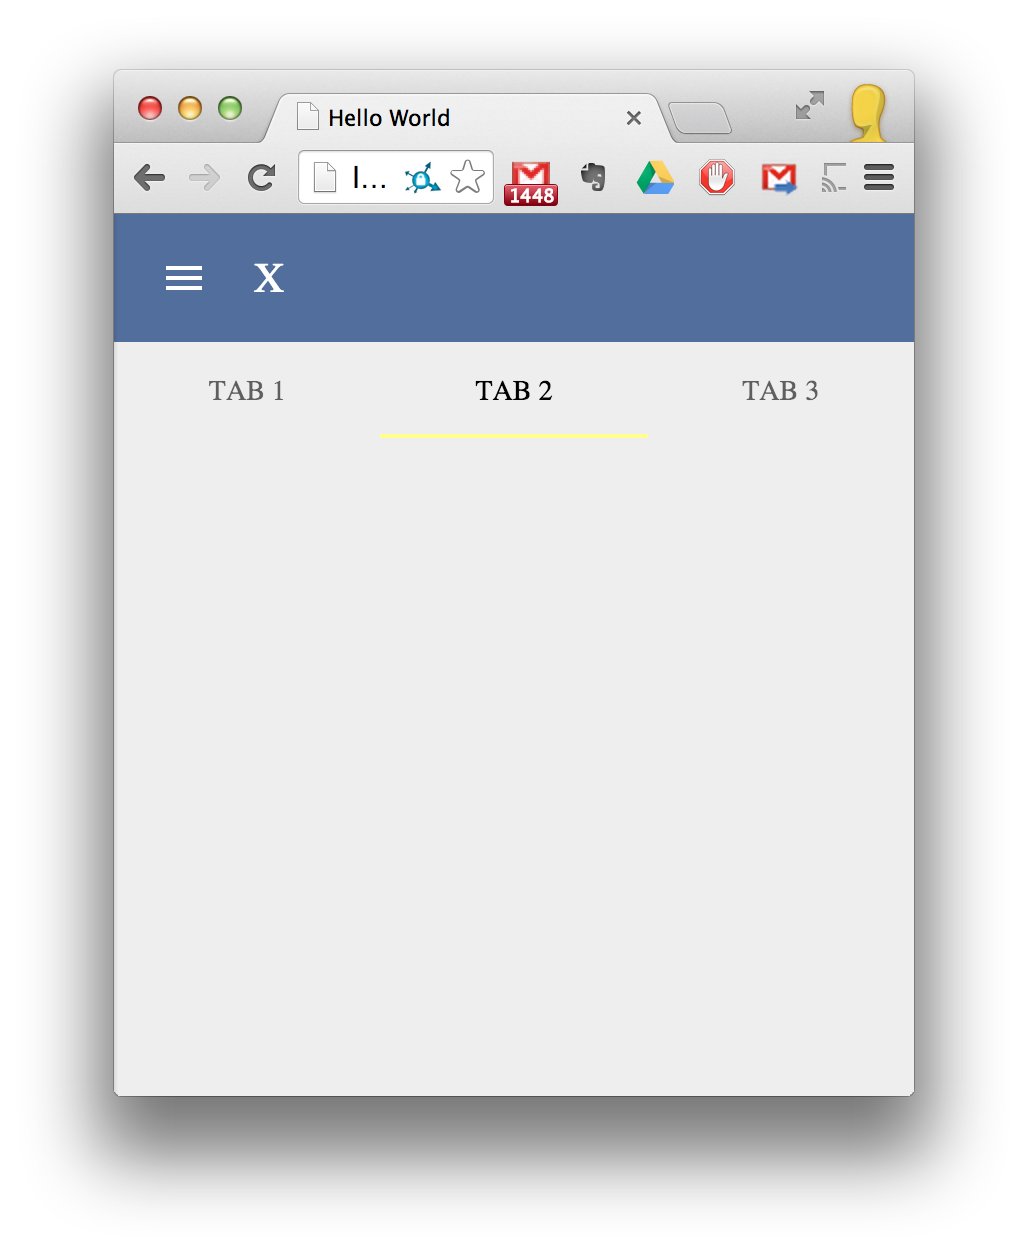
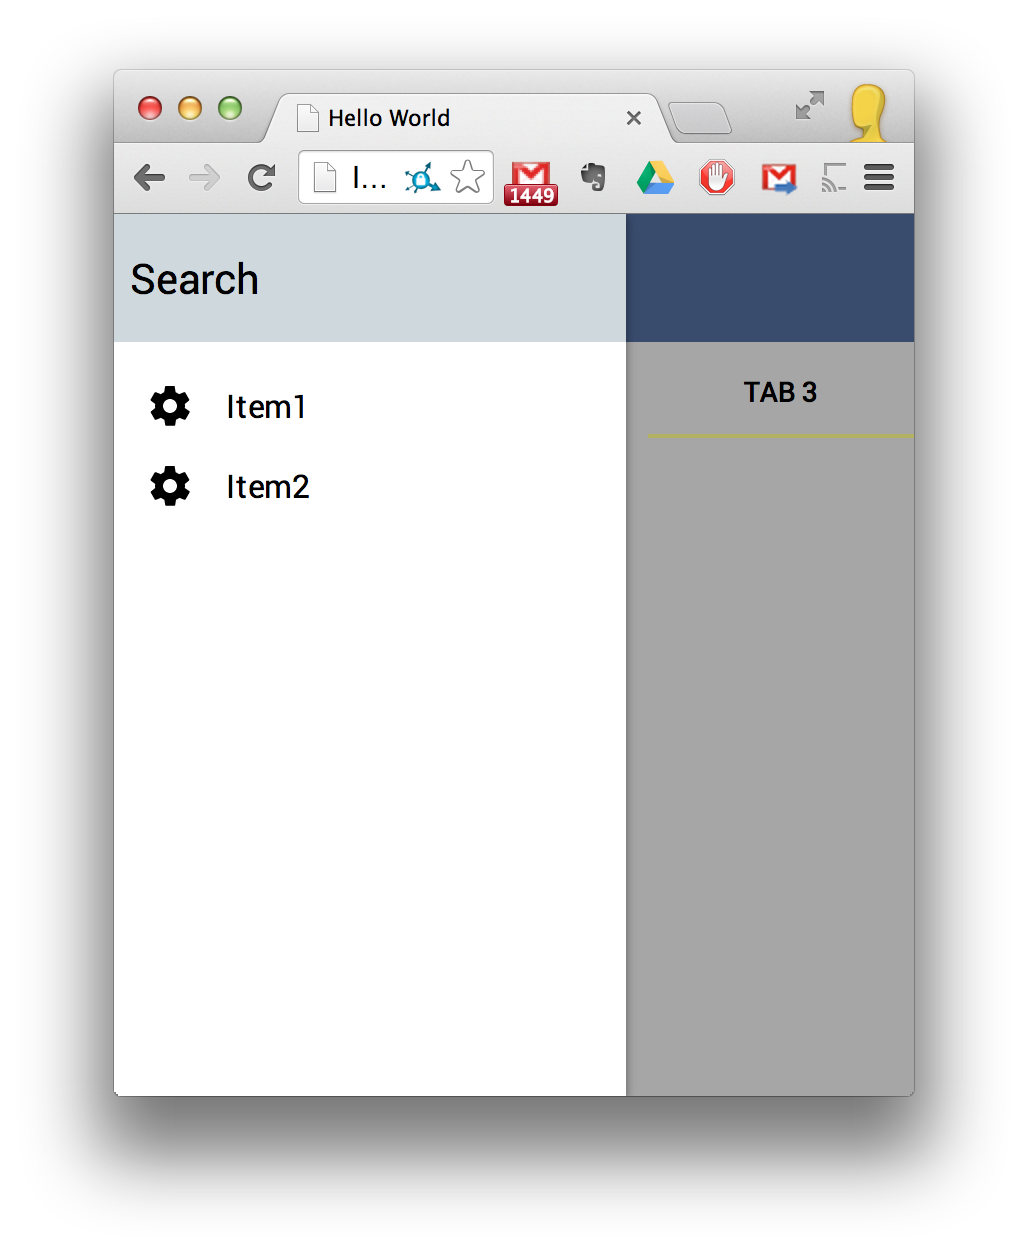
update font

diff --git a/www/index.html b/www/index.html
@@ -24,6 +24,8 @@
         <!-- WARNING: for iOS 7, remove the width=device-width and height=device-height attributes. See https://issues.apache.org/jira/browse/CB-4323 -->
         <meta name="viewport" content="user-scalable=no, initial-scale=1, maximum-scale=1, minimum-scale=1, width=device-width, height=device-height, target-densitydpi=device-dpi" />
         <link rel="stylesheet" type="text/css" href="css/index.css" />
+        <link rel="stylesheet" type="text/css" href="bower_components/roboto-fontface-bower/roboto-fontface.css" />
+
         <script src="bower_components/platform/platform.js"></script>
 
         <link rel="import" href="bower_components/core-scaffold/core-scaffold.html">
@@ -35,7 +37,7 @@
         <link rel="import" href="bower_components/core-menu/core-submenu.html">
         <link rel="import" href="bower_components/core-menu/core-submenu.html">
         <link rel="import" href="bower_components/paper-tabs/paper-tabs.html">
-        <link rel="import" href="bower_components/paper-tab/paper-tab.html">
+        <link rel="import" href="bower_components/paper-tabs/paper-tab.html">
         <title>Hello World</title>
     </head>
     <body unresolved touch-action="auto">
@@ -54,6 +56,6 @@
           <paper-tab>TAB 3</paper-tab>
         </paper-tabs>
       </core-scaffold>
-      <script type="text/javascript" src="cordova.js"></script>
+      <!-- script type="text/javascript" src="cordova.js"></script -->
     </body>
 </html>

diff --git a/www/css/index.css b/www/css/index.css
@@ -1,0 +1,3 @@
+body {
+    font-family: "Roboto", sans-serif;
+}
